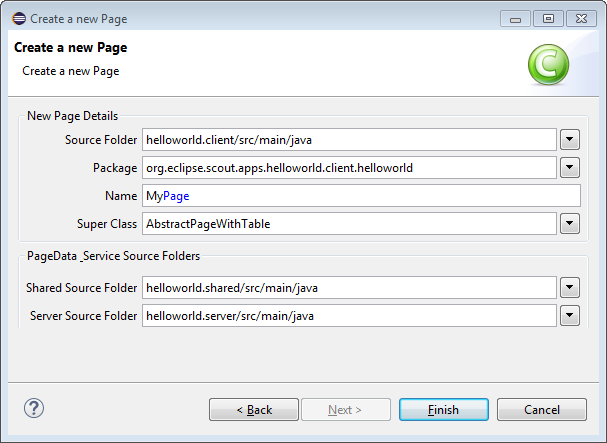
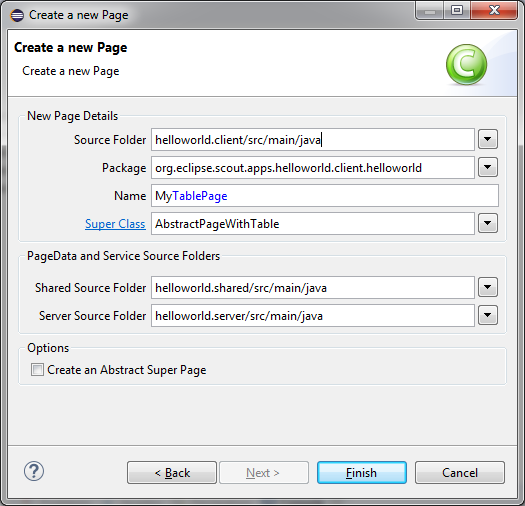
Help Guide: update a new version
Build from commit f8d92fba86423364df0594c9eba139fe79eb65ec (scout docs repo).

Changed region(s): [[0.0, 0.0, 1.0, 1.0]]

diff --git a/org.eclipse.scout.sdk.s2e.doc/html/sdk_wizard_project.html b/org.eclipse.scout.sdk.s2e.doc/html/sdk_wizard_project.html
@@ -104,7 +104,7 @@
         <div class="ulist"> 
          <ul> 
           <li> <p>Contains components needed in both the client and the server application.</p> </li> 
-          <li> <p>For examples see the <code>IHelloWorldFormService</code> interface in <code>src/main/java</code> and class <code>HelloWorldFormData</code> in <code>src/generated/java</code>.</p> </li> 
+          <li> <p>For examples see the <code>IHelloWorldService</code> interface in <code>src/main/java</code> and class <code>HelloWorldFormData</code> in <code>src/generated/java</code>.</p> </li> 
           <li> <p>The <code>Texts.nls</code> file that can be opened in the <a href="sdk_editor_nls.html">Scout NLS Editor</a>.</p> </li> 
          </ul> 
         </div> </li> 
@@ -112,7 +112,7 @@
         <div class="ulist"> 
          <ul> 
           <li> <p>Contains the model components of the server application in <code>src/main/java</code> and model tests in <code>src/test/java</code>.</p> </li> 
-          <li> <p>The class <code>HelloWorldFormService</code> in package <code>org.eclipse.scout.apps.helloworld.server.helloworld</code> is an example of such a model class.</p> </li> 
+          <li> <p>The class <code>HelloWorldService</code> in package <code>org.eclipse.scout.apps.helloworld.server.helloworld</code> is an example of such a model class.</p> </li> 
          </ul> 
         </div> </li> 
        <li> <p>Maven module <strong>helloworld.server.app.dev</strong></p> 
@@ -121,7 +121,7 @@
           <li> <p>Contains all components to run the Scout server application from within the Eclipse IDE.</p> </li> 
           <li> <p>The file <code>config.properties</code> in folder <code>src/main/resources</code> contains the development configuration for the Scout server application.</p> </li> 
           <li> <p>The file <code>pom.xml</code> bundles the Jetty web server with the server application.</p> </li> 
-          <li> <p>The file <code>server-dev.launch</code> contains the launch configuration for the Eclipse IDE.</p> </li> 
+          <li> <p>The file <code>[webapp] dev server.launch</code> contains the launch configuration for the Eclipse IDE.</p> </li> 
          </ul> 
         </div> </li> 
        <li> <p>Maven module <strong>helloworld.server.app.war</strong></p> 
@@ -146,7 +146,7 @@
           <li> <p>The file <code>config.properties</code> in folder <code>src/main/resources</code> contains the development configuration for the application.</p> </li> 
           <li> <p>The file <code>web.xml</code> in folder <code>src/main/webapp</code> contains the web configuration for the application.</p> </li> 
           <li> <p>The file <code>pom.xml</code> bundles the Jetty web server with the application.</p> </li> 
-          <li> <p>The file <code>ui-html-dev.launch</code> contains the launch configuration for the Eclipse IDE.</p> </li> 
+          <li> <p>The file <code>[webapp] dev ui.launch</code> contains the launch configuration for the Eclipse IDE.</p> </li> 
          </ul> 
         </div> </li> 
        <li> <p>Maven module <strong>helloworld.ui.html.app.war</strong></p> 
@@ -184,7 +184,8 @@
   </table>
   <div id="footer"> 
    <div id="footer-text">
-     Last updated 2016-07-13 02:33:13 CEST 
+     Version 6.0
+    <br /> Last updated 2017-01-23 11:56:29 CET 
    </div> 
   </div>  
  </body>

diff --git a/org.eclipse.scout.sdk.s2e.doc/html/sdk_editor_nls.html b/org.eclipse.scout.sdk.s2e.doc/html/sdk_editor_nls.html
@@ -69,7 +69,7 @@
        <tr> 
         <td class="tableblock halign-left valign-top"><p class="tableblock"><span class="image"><img src="images/icon_find_obj.gif" alt="icon find obj" /></span></p></td> 
         <td class="tableblock halign-left valign-top"><p class="tableblock">Show NLS entry usage</p></td> 
-        <td class="tableblock halign-left valign-top"><p class="tableblock">Search in the Java code where the NLS Key is used.</p></td> 
+        <td class="tableblock halign-left valign-top"><p class="tableblock">For each row, search in the Java code where the NLS Key is used. Results are displayed in the first column.</p></td> 
        </tr> 
        <tr> 
         <td class="tableblock halign-left valign-top"><p class="tableblock"><span class="image"><img src="images/icon_text_add.png" alt="icon text add" /></span></p></td> 
@@ -100,7 +100,7 @@
       <p>Hide inherited rows checkbox</p> 
      </div> 
      <div class="paragraph"> 
-      <p>On the top of each columns, the text fields allow you to filter the entries in the table. With the <b class="button">Reset</b> button on the right you will empty those filters.</p> 
+      <p>On the top of each column, the text fields allow you to filter the entries in the table. With the <b class="button">Reset</b> button on the right you will empty those filters.</p> 
      </div> 
      <div class="paragraph"> 
       <p>The entries in the table can be directly edited by pressing F2 or double-clicking into a text cell.</p> 
@@ -118,7 +118,7 @@
        <tr> 
         <td class="tableblock halign-left valign-top"><p class="tableblock"><span class="image"><img src="images/icon_text.png" alt="icon text" /></span></p></td> 
         <td class="tableblock halign-left valign-top"><p class="tableblock">Modify Entry</p></td> 
-        <td class="tableblock halign-left valign-top"><p class="tableblock">Opens the <a href="sdk_wizard_nls-entry.html">NLS Entry Wizard</a></p></td> 
+        <td class="tableblock halign-left valign-top"><p class="tableblock">Opens the <a href="sdk_wizard_nls-entry.html">New Text Entry Wizard</a></p></td> 
        </tr> 
        <tr> 
         <td class="tableblock halign-left valign-top"><p class="tableblock"><span class="image"><img src="images/icon_find_obj.gif" alt="icon find obj" /></span></p></td> 
@@ -134,7 +134,7 @@
      </table> 
     </div> 
     <div class="sect3"> 
-     <h4 id="default-mapping-to-property-files"><a class="anchor" href="#default-mapping-to-property-files"></a>Default Mapping to Property Files</h4> 
+     <h4 id="default-mapping-to-properties-files"><a class="anchor" href="#default-mapping-to-properties-files"></a>Default Mapping to Properties Files</h4> 
      <div class="paragraph"> 
       <p>The mapping between the properties files is registered in the &quot;Text Provider Service&quot; class. Per default the files follow this pattern: <code>&lt;your application&gt;.shared/src/main/resources/&lt;identifier of the project&gt;/texts/Texts&lt;language&gt;.properties</code></p> 
      </div> 
@@ -179,7 +179,7 @@
   <div id="footer"> 
    <div id="footer-text">
      Version 6.0
-    <br /> Last updated 2016-07-13 02:33:13 CEST 
+    <br /> Last updated 2017-01-23 11:56:29 CET 
    </div> 
   </div>  
  </body>

diff --git a/org.eclipse.scout.sdk.s2e.doc/html/sdk_editor_java.html b/org.eclipse.scout.sdk.s2e.doc/html/sdk_editor_java.html
@@ -36,7 +36,7 @@
      <p>To create new Scout components that are represented by inner classes in the Scout framework, the Scout tooling extends the Java content assist of the Eclipse Java editor. The offered proposals are context specific. Depending on the current cursor position in the Java editor, possible Scout components are added to the proposal list.</p> 
     </div> 
     <div class="paragraph"> 
-     <p>In a class representing a group box in a form, the Scout content assist adds proposals for various form fields are shown and in a table class the content assist adds proposals to add table columns or context menus. are added that trigger the creation of inner classes for form fields, table columns or codes. The Eclipse content assist can be started by typing <span class="keyseq"><kbd>Ctrl</kbd>+<kbd>Space</kbd></span>.</p> 
+     <p>In a class representing a group box in a form, the Scout content assist adds proposals for various form fields are shown and in a table class the content assist adds proposals to add table columns or context menus. Those proposals trigger the creation of inner classes for form fields, table columns or codes. The Eclipse content assist can be started by typing <span class="keyseq"><kbd>Ctrl</kbd>+<kbd>Space</kbd></span>.</p> 
     </div> 
     <div class="sect3"> 
      <h4 id="sec-sdk_new_form_field"><a class="anchor" href="#sec-sdk_new_form_field"></a>Create new Form Fields</h4> 
@@ -55,7 +55,7 @@
       </div> 
      </div> 
      <div class="paragraph"> 
-      <p>When a template is selected, it is possible to customized it by navigating between the different Edit-Groups with the <kbd>Tab</kbd> Key (this works exactly like other templates in the Eclipse Editor). With this mechanism you can quickly define the class name, the parent class and other properties. To exit the Edit-Mode just press <kbd>Enter</kbd>.</p> 
+      <p>When a template is selected, it is possible to customize it by navigating between the different Edit-Groups with the <kbd>Tab</kbd> Key (this works exactly like other templates in the Eclipse Editor). With this mechanism you can quickly define the class name, the parent class and other properties. To exit the Edit-Mode just press <kbd>Enter</kbd>.</p> 
      </div> 
     </div> 
     <div class="sect3"> 
@@ -136,7 +136,7 @@
   <div id="footer"> 
    <div id="footer-text">
      Version 6.0
-    <br /> Last updated 2016-07-13 02:33:13 CEST 
+    <br /> Last updated 2017-01-23 11:56:29 CET 
    </div> 
   </div>  
  </body>

diff --git a/org.eclipse.scout.sdk.s2e.doc/html/sdk_wizard_page.html b/org.eclipse.scout.sdk.s2e.doc/html/sdk_wizard_page.html
@@ -69,7 +69,7 @@
         Name
        </dt> 
        <dd> 
-        <p>The name of the page class. According to Scout conventions the class name ends with the suffix <code>Page</code>.</p> 
+        <p>The name of the page class. According to Scout conventions the class name ends with the suffix <code>TablePage</code> (for subclasses of <code>AbstractPageWithTable</code>) or <code>NodePage</code> (for <code>AbstractPageWithNodes</code>).</p> 
        </dd> 
        <dt class="hdlist1">
         Super Class
@@ -102,14 +102,14 @@
        <li> <p>In Maven module <strong>helloworld.client</strong></p> 
         <div class="ulist"> 
          <ul> 
-          <li> <p>The <code>MyPage</code> page class in folder <code>src/main/java</code> and package <code>org.eclipse.scout.apps.helloworld.client.helloworld</code></p> </li> 
+          <li> <p>The <code>MyTablePage</code> page class in folder <code>src/main/java</code> and package <code>org.eclipse.scout.apps.helloworld.client.helloworld</code></p> </li> 
          </ul> 
         </div> </li> 
        <li> <p>In Maven module <strong>helloworld.shared</strong></p> 
         <div class="ulist"> 
          <ul> 
           <li> <p>The <code>IMyService</code> service interface in folder <code>src/main/java</code> and package <code>org.eclipse.scout.apps.helloworld.shared.helloworld</code></p> </li> 
-          <li> <p><code>MyPageData</code> page data class in folder <code>src/generated/java</code> and package <code>org.eclipse.scout.apps.helloworld.shared.helloworld</code></p> </li> 
+          <li> <p><code>MyTablePageData</code> page data class in folder <code>src/generated/java</code> and package <code>org.eclipse.scout.apps.helloworld.shared.helloworld</code></p> </li> 
          </ul> 
         </div> </li> 
        <li> <p>In Maven module <strong>helloworld.server</strong></p> 
@@ -145,7 +145,7 @@
   <div id="footer"> 
    <div id="footer-text">
      Version 6.0
-    <br /> Last updated 2016-07-13 02:33:13 CEST 
+    <br /> Last updated 2017-01-23 11:56:29 CET 
    </div> 
   </div>  
  </body>

diff --git a/org.eclipse.scout.sdk.s2e.doc/html/sdk_wizard_nls-entry.html b/org.eclipse.scout.sdk.s2e.doc/html/sdk_wizard_nls-entry.html
@@ -42,11 +42,11 @@
      <div class="content"> 
       <img src="images/sdk_wizard_nls_entry.png" alt="sdk wizard nls entry" /> 
      </div> 
+     <div class="title">
+      Figure 1. Adding a new text with the New Entry wizard.
+     </div> 
     </div> 
     <div class="dlist"> 
-     <div class="title">
-      Adding a new text with the New Entry wizard.
-     </div> 
      <dl> 
       <dt class="hdlist1">
        Key Name
@@ -98,7 +98,7 @@
   <div id="footer"> 
    <div id="footer-text">
      Version 6.0
-    <br /> Last updated 2016-07-13 02:33:13 CEST 
+    <br /> Last updated 2017-01-23 11:56:29 CET 
    </div> 
   </div>  
  </body>

diff --git a/org.eclipse.scout.sdk.s2e.doc/html/sdk_wizard_code-type.html b/org.eclipse.scout.sdk.s2e.doc/html/sdk_wizard_code-type.html
@@ -132,7 +132,7 @@
   <div id="footer"> 
    <div id="footer-text">
      Version 6.0
-    <br /> Last updated 2016-07-13 02:33:13 CEST 
+    <br /> Last updated 2017-01-23 11:56:29 CET 
    </div> 
   </div>  
  </body>

diff --git a/org.eclipse.scout.sdk.s2e.doc/html/sdk_wizard_form.html b/org.eclipse.scout.sdk.s2e.doc/html/sdk_wizard_form.html
@@ -170,7 +170,7 @@
   <div id="footer"> 
    <div id="footer-text">
      Version 6.0
-    <br /> Last updated 2016-07-13 02:33:13 CEST 
+    <br /> Last updated 2017-01-23 11:56:29 CET 
    </div> 
   </div>  
  </body>

diff --git a/org.eclipse.scout.sdk.s2e.doc/html/sdk_wizard_lookupcall.html b/org.eclipse.scout.sdk.s2e.doc/html/sdk_wizard_lookupcall.html
@@ -150,7 +150,7 @@
   <div id="footer"> 
    <div id="footer-text">
      Version 6.0
-    <br /> Last updated 2016-07-13 02:33:13 CEST 
+    <br /> Last updated 2017-01-23 11:56:29 CET 
    </div> 
   </div>  
  </body>

diff --git a/org.eclipse.scout.sdk.s2e.doc/html/sdk_wizard_permission.html b/org.eclipse.scout.sdk.s2e.doc/html/sdk_wizard_permission.html
@@ -120,7 +120,7 @@
   <div id="footer"> 
    <div id="footer-text">
      Version 6.0
-    <br /> Last updated 2016-07-13 02:33:13 CEST 
+    <br /> Last updated 2017-01-23 11:56:29 CET 
    </div> 
   </div>  
  </body>

diff --git a/org.eclipse.scout.sdk.s2e.doc/html/tutorial_existingdemo.html b/org.eclipse.scout.sdk.s2e.doc/html/tutorial_existingdemo.html
@@ -297,7 +297,7 @@
   <div id="footer"> 
    <div id="footer-text">
      Version 6.0
-    <br /> Last updated 2016-07-13 02:33:13 CEST 
+    <br /> Last updated 2017-01-23 11:56:29 CET 
    </div> 
   </div>  
  </body>

diff --git a/org.eclipse.scout.sdk.s2e.doc/html/tutorial_helloworld.html b/org.eclipse.scout.sdk.s2e.doc/html/tutorial_helloworld.html
@@ -153,7 +153,7 @@
   <div id="footer"> 
    <div id="footer-text">
      Version 6.0
-    <br /> Last updated 2016-07-13 02:33:13 CEST 
+    <br /> Last updated 2017-01-23 11:56:29 CET 
    </div> 
   </div>  
  </body>

diff --git a/org.eclipse.scout.sdk.s2e.doc/html/scout_user_guide.html b/org.eclipse.scout.sdk.s2e.doc/html/scout_user_guide.html
@@ -60,7 +60,7 @@
   <div id="footer"> 
    <div id="footer-text">
      Version 6.0
-    <br /> Last updated 2016-07-13 02:33:13 CEST 
+    <br /> Last updated 2017-01-23 11:56:29 CET 
    </div> 
   </div>  
  </body>
